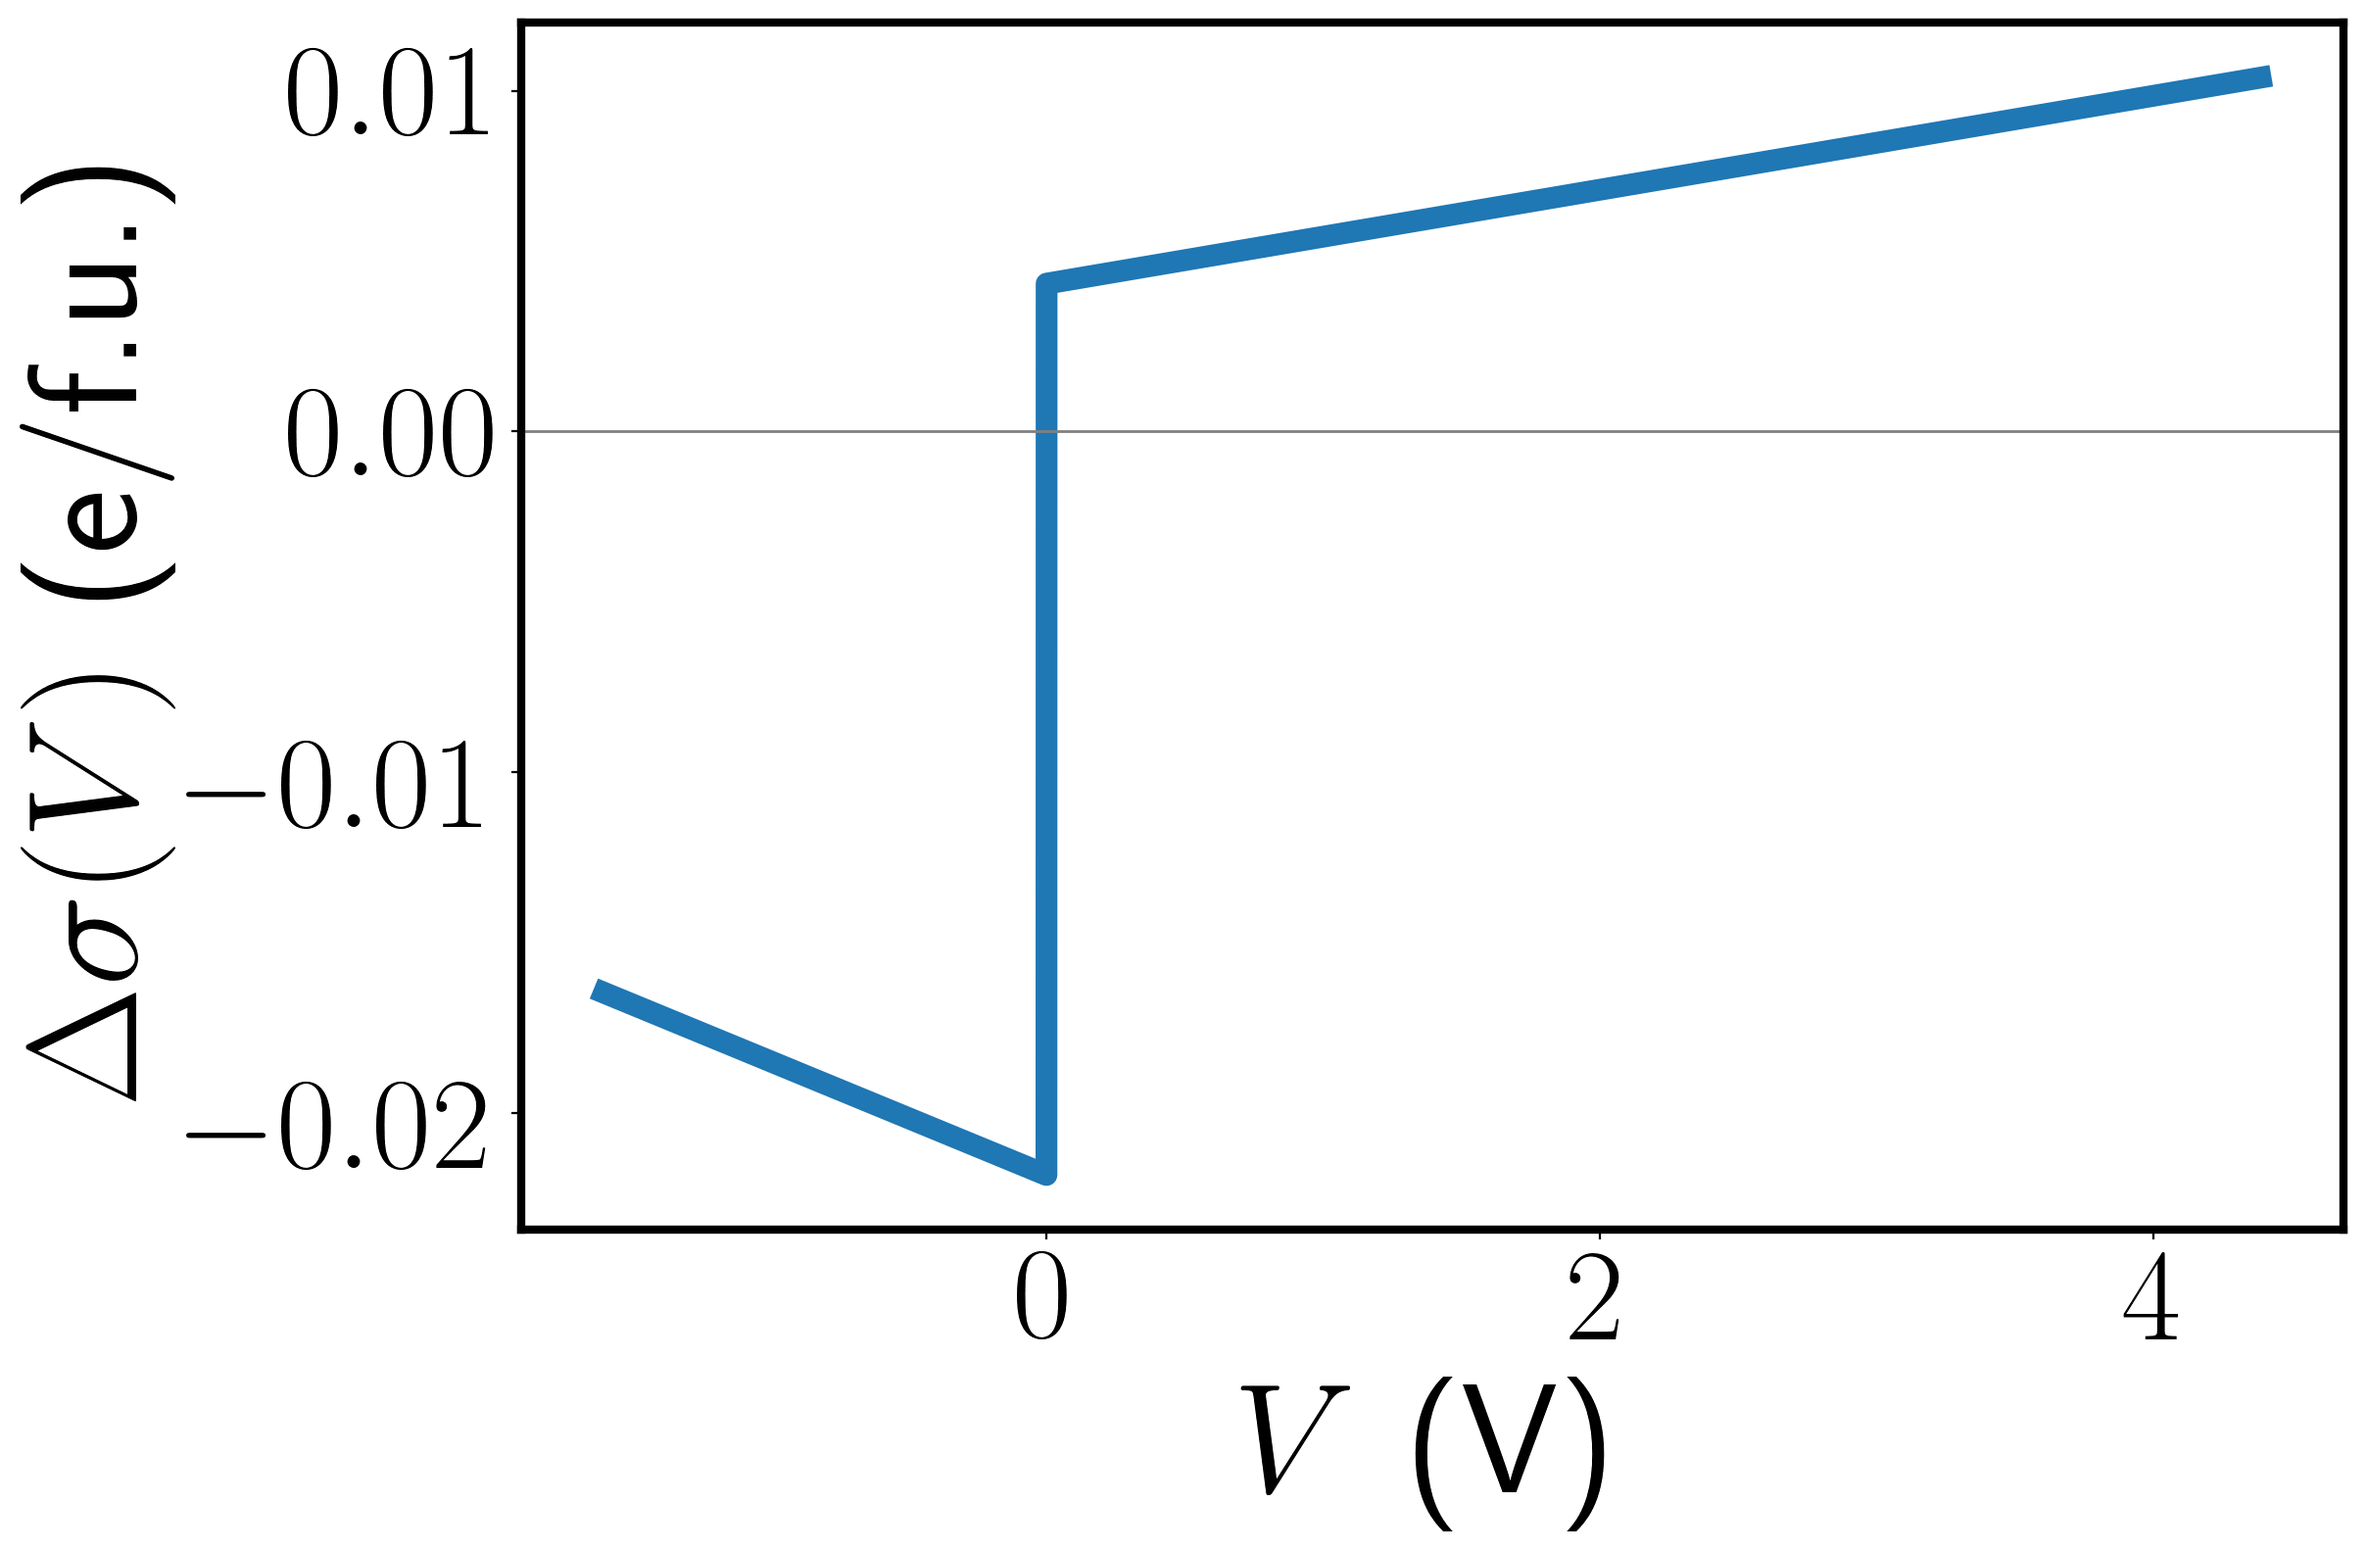
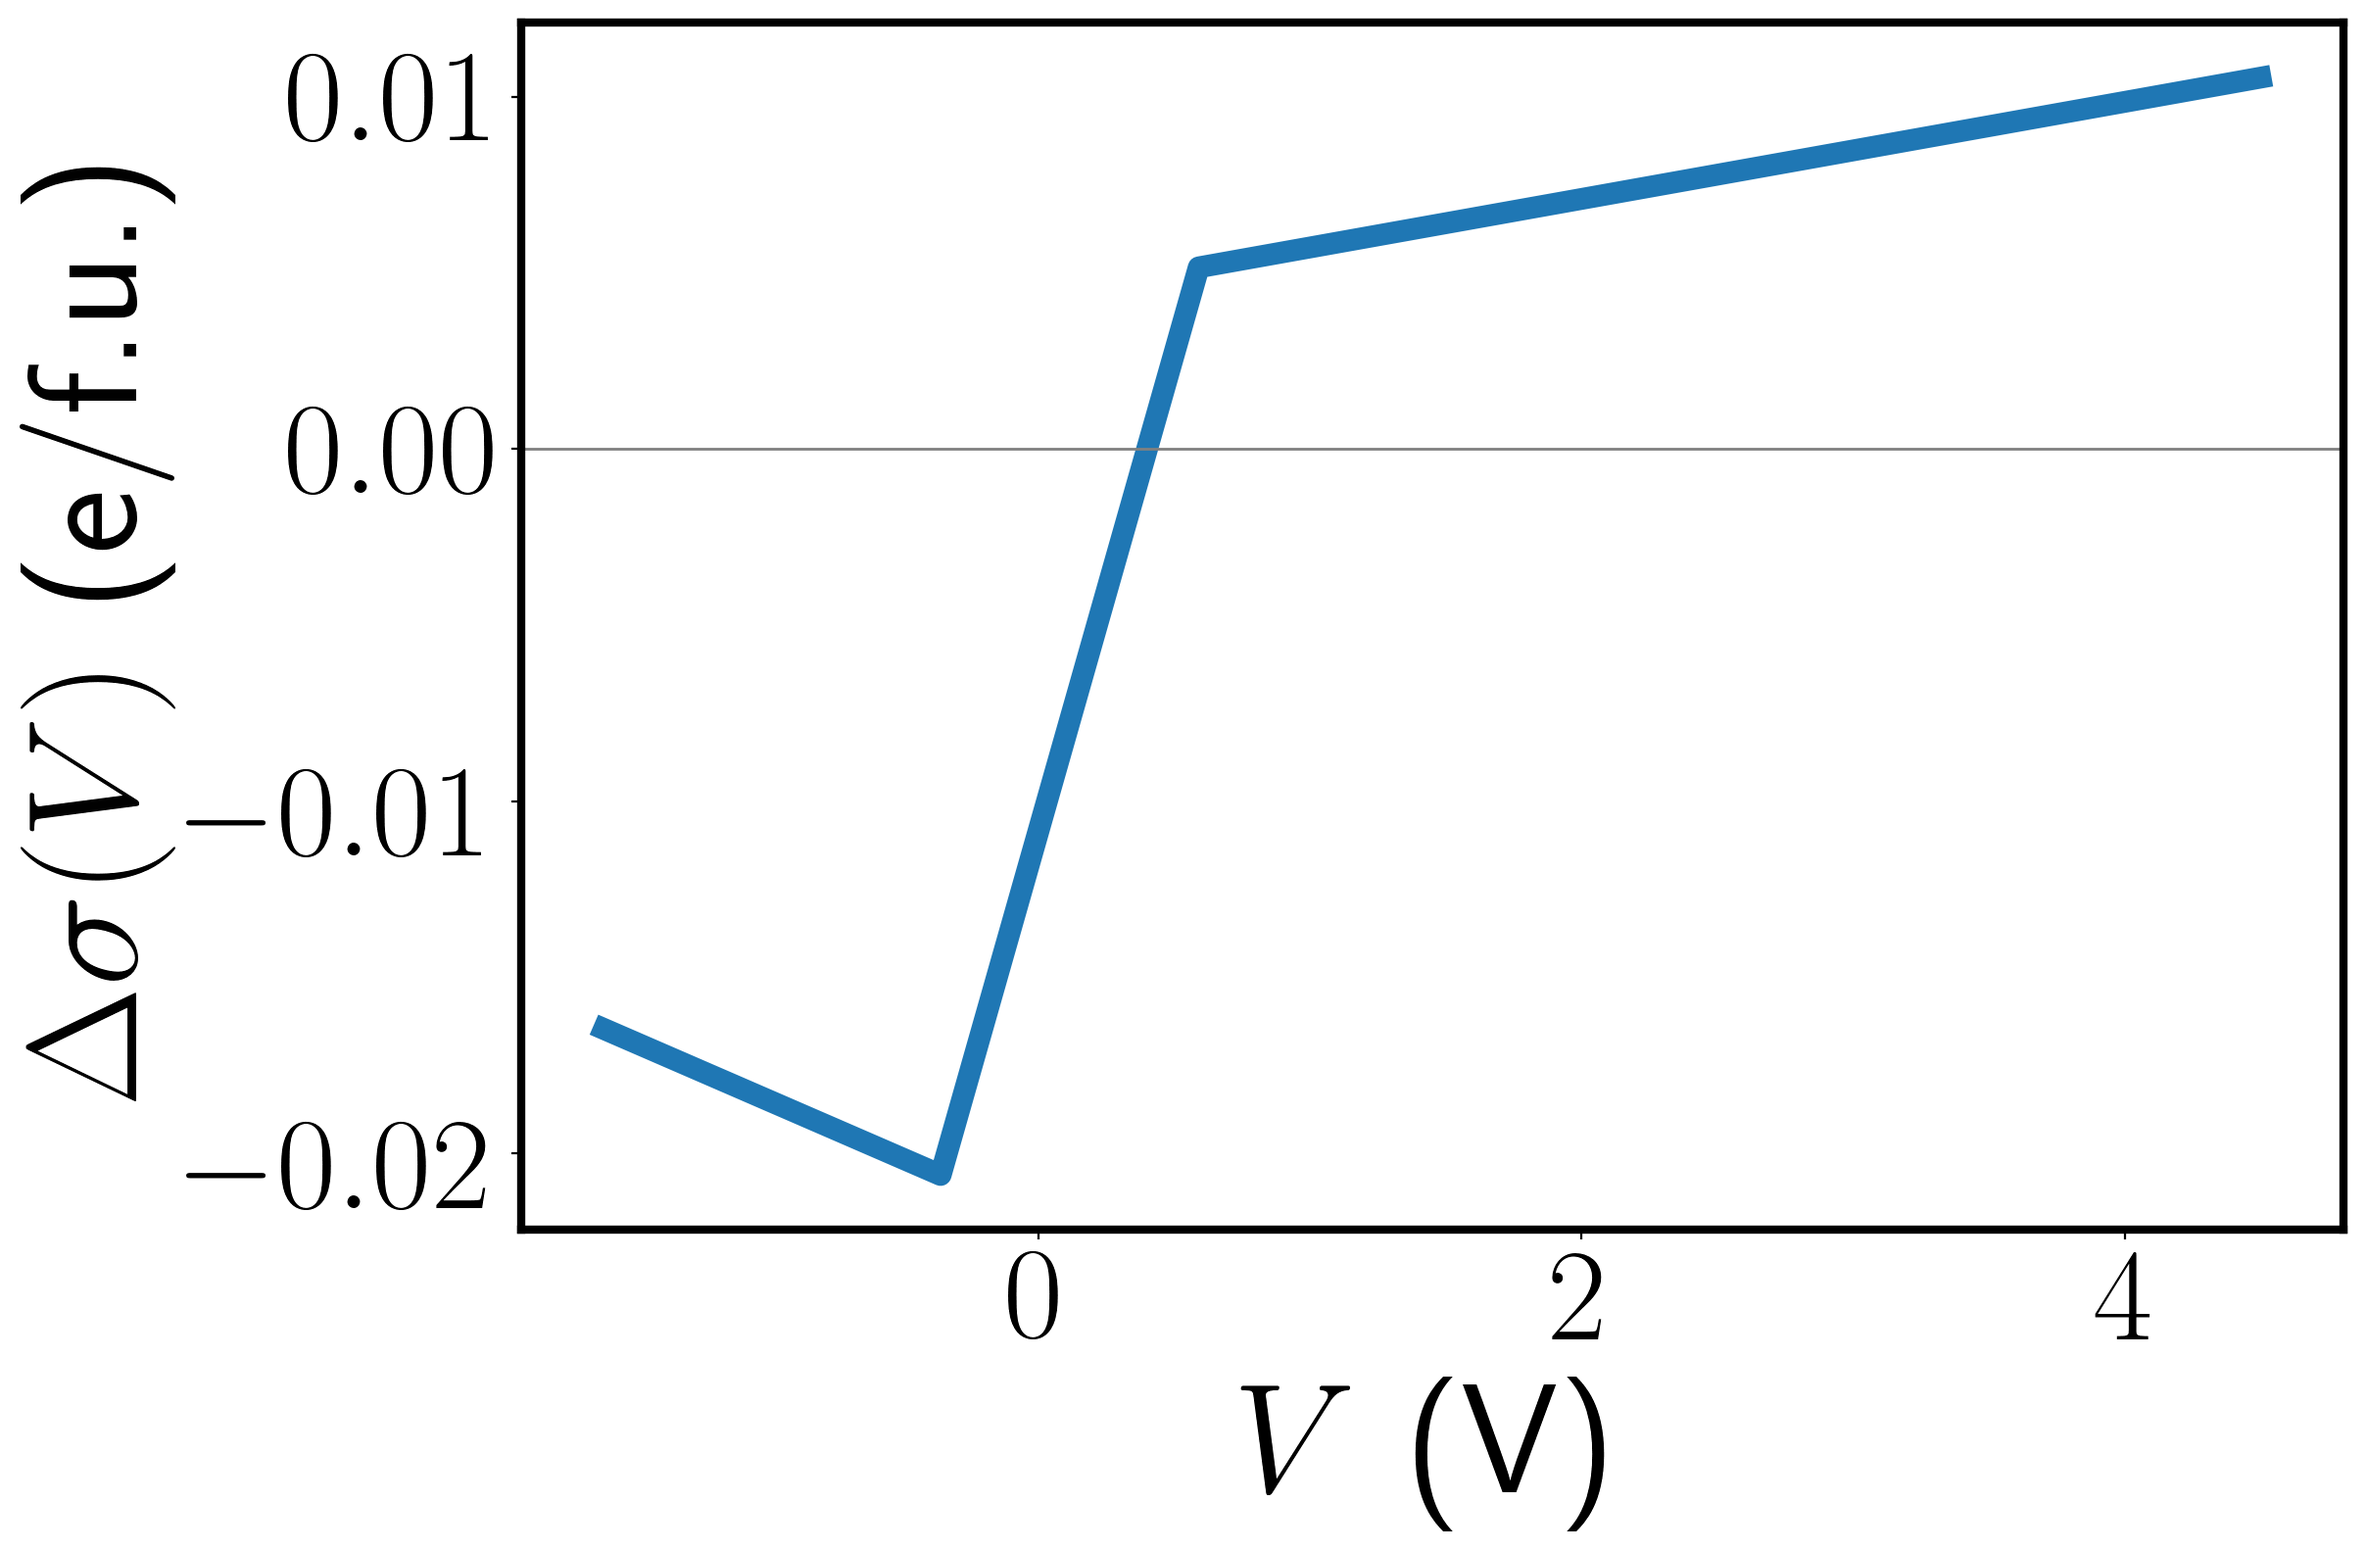
Update Figure 4 to include plotting for Figure 4b, T vs. Q. Need to fix the coloring and shading of Fig 4b still and add to repo.

diff --git a/figures/fig4/fig4.py b/figures/fig4/fig4.py
@@ -81,15 +81,18 @@ def integrate_dQ():
         integral: array of $$\int \Delta Q dV$$
     """
     # Define voltage values
-    V = linspace(-1.6,4.3889,10000)
-
+    #V = linspace(-1.6,4.3889,10000)
+    V = linspace(-1.6,4.5,10000)
+    V_upper = 0.59 # value of V at sigma = 0 (from 2H curve)
+    V_lower = -0.36
+    
     # Compute \Delta Q based on equation for V-Q diagram in fig1:
-    sig2h =  sig2h = zeros(len(V))
-    sig2h[V>0] = (V[V>0]-0.59)/38.8507
-    sig2h[V<0] = (V[V<0]+0.36)/32.8307
+    sig2h = zeros(len(V))
+    sig2h[V>V_upper] = (V[V>V_upper]-0.59)/38.8507
+    sig2h[V<V_lower] = (V[V<V_lower]+0.36)/32.8307
     sigTp = (V - 0.4) / 36.8776
     dQ  = sigTp - sig2h
-
+    
     # Compute integral \int \Delta Q dV
     integral = zeros(len(V))
 
@@ -168,8 +171,31 @@ def print_Vt_T300K(Tnew, Vnew):
     print("Transition Voltages:\n\tVt1(295K) = %8g\n\tVt2(295K) = %8g" %(Vt1,Vt2))
 
 
+def computeQT(V,TV):
+    """
+    Generates a Temperature vs. excess charge phase diagram
+
+    Uses the polynomial (linear) fit of fig1.py. TV values from the TV phase
+    diagram are passed to this function, and the Q(V) fits from fig1.py are used
+    to generate TQ (or Tsigma).
+
+    sigma_2H(V) = (V - 0.59)/38.8507      (V > 0)
+    sigma_2H(V) = (V + 0.36)/32.8307      (V < 0)
+    sigma_Tp(V) = (V - 0.40)/36.8776      (all V)
+
+    """
+
+    q2H = zeros(len(V))
+    q2Hp = (V - 0.59)/38.8507
+    q2Hn = (V + 0.36)/32.8307
+    q2H[q2Hp>=0] = q2Hp[q2Hp>=0] #= (V[V>=0] - 0.59)/38.8507
+    q2H[q2Hn<0]  = q2Hn[q2Hn<0] #(V[V<0] + 0.36)/32.8307
+    q1Tp = (V - 0.40)/36.8776
+ 
+    return q2H, q1Tp
+    
 if __name__ == '__main__':
-    plotSupFigs = False  # Option to plot supporting figures
+    plotSupFigs = True  # Option to plot supporting figures
     plotFigure4 = True   # Option to plot Figure 4
     
     thermal2h = '../../data/thermal_properties/phonon/2H/thermal.dat'
@@ -198,11 +224,17 @@ if __name__ == '__main__':
     top     = 1000*ones(len(bottom))
     x       = concatenate([Vbefore,Vnew,Vafter])
 
+
+
+    q2H, q1Tp = computeQT(Vnew,Tnew)
+    x2 = linspace(-0.1,0.15, len(Vnew))
+    top2 = 1000*ones(len(Vnew))
+    
     # Create figure of T-V phase diagram
     if plotFigure4:
         lws=8
         f = figure()
-        plot(Vnew,Tnew,linewidth=8)
+        plot(Vnew,Tnew,lw=lws)
         fill(Vnew,Tnew,color='b',alpha=0.25)
         fill_between(x,bottom,top,color='g', alpha=0.25)
         ylim(0,800)
@@ -211,8 +243,22 @@ if __name__ == '__main__':
         ylabel('Temperature (K)')
         text(1.6,340,'2H',fontsize=40)
         text(3.4,480,"1T'",fontsize=40)
-        savefig('fig4.png',dpi=300,bbox_inches='tight')
+        savefig('fig4a.png',dpi=300,bbox_inches='tight')
 
+        f = figure()
+        plot(q2H,  Tnew, lw=lws)
+        plot(q1Tp, Tnew, 'g',lw=lws)
+        fill(q2H,  Tnew, color='b',alpha=0.25)
+        fill_between(x2,q1Tp,top2, color='g', alpha=0.25)
+        xticks([-0.05,0,0.05,0.1])
+        xlabel('$\sigma$ (e/f.u.)')
+        ylabel('Temperature (K)')
+        xlim(-0.09,0.125)
+        ylim(0,800)
+        text(0.0,340,'2H',fontsize=40)
+        text(-0.05,480,"1T'",fontsize=40)
+        savefig('fig4b.png',bbox_inches='tight')
+        
     if plotSupFigs:
         figure()
         plot(T, intdS,lw=lws)
